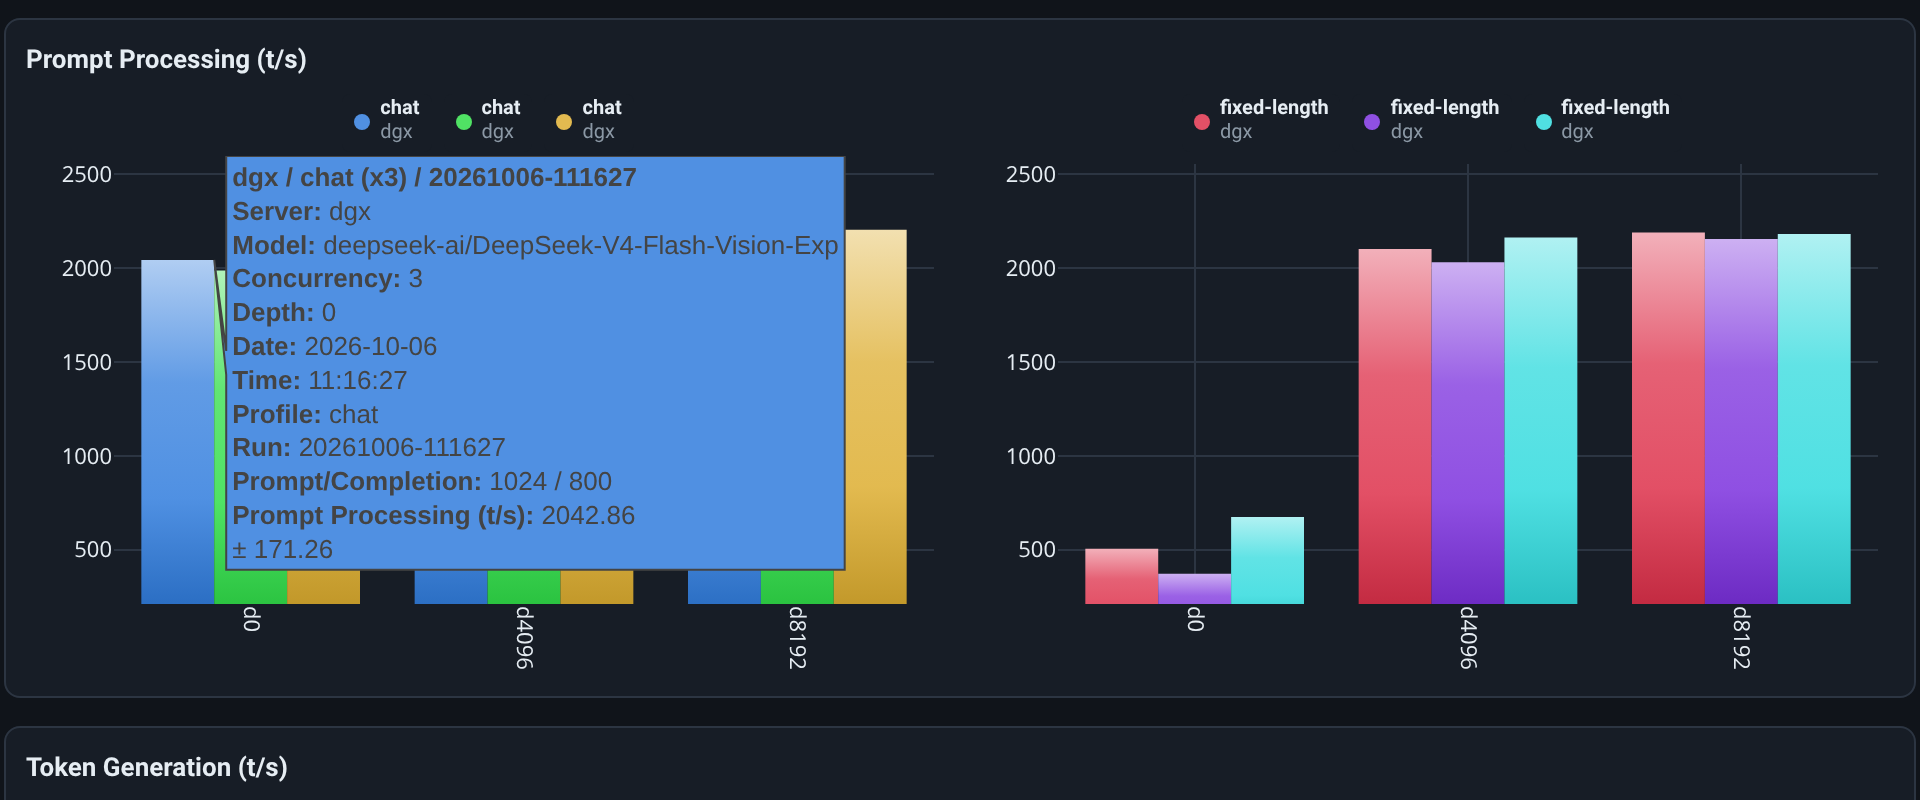
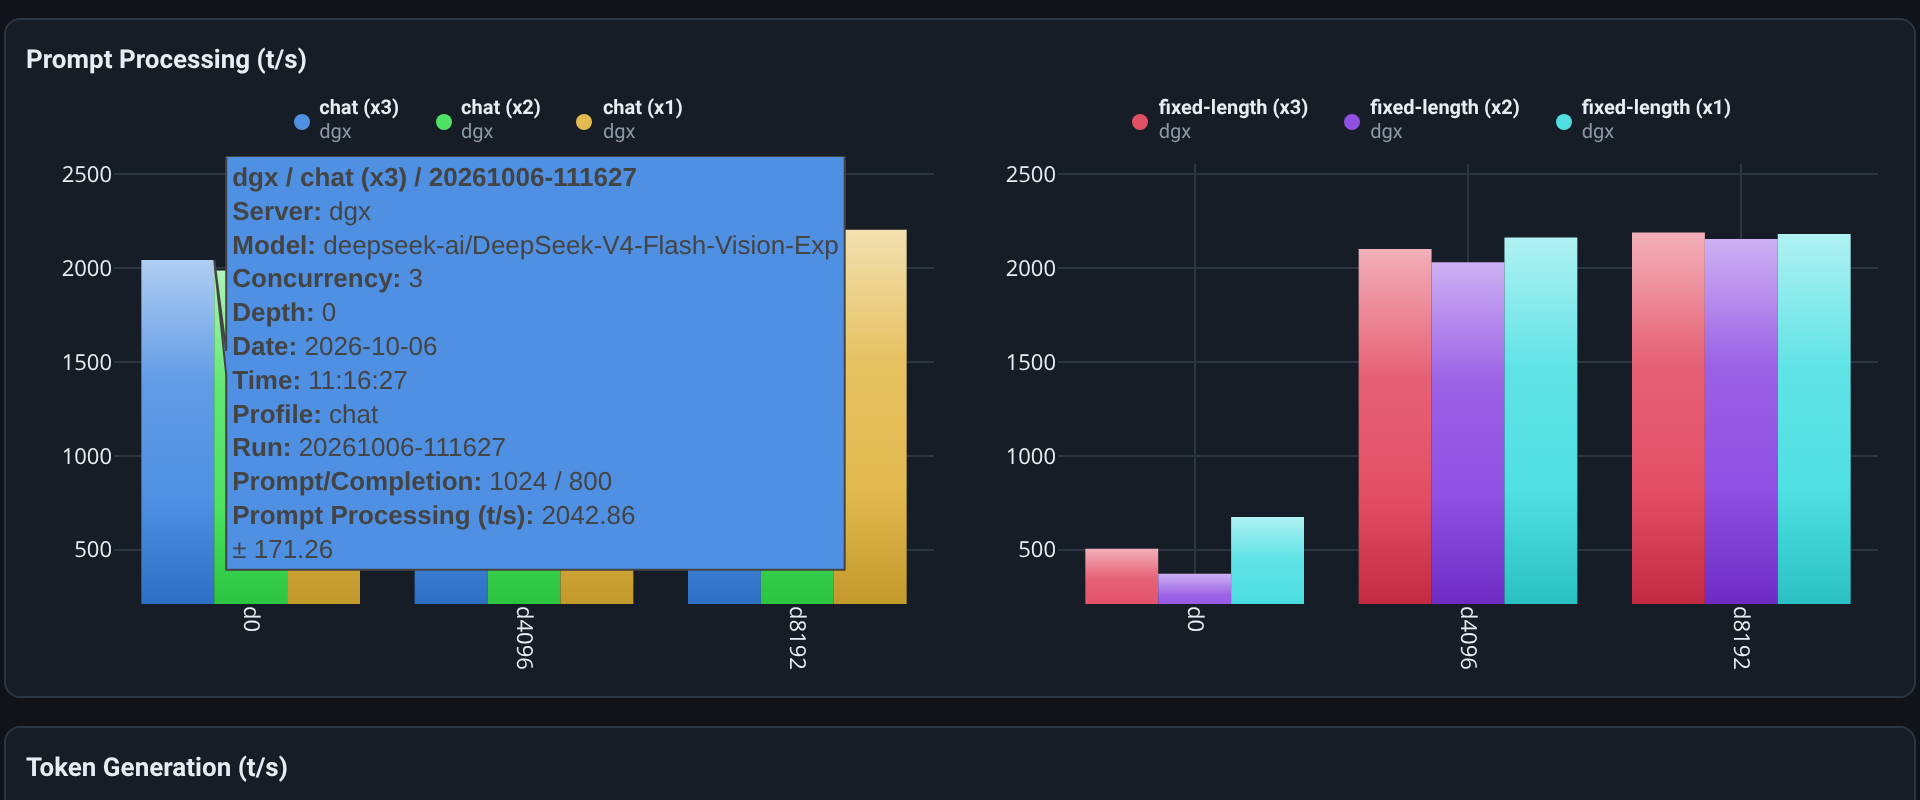
Combine mode legends show concurrency; refreshed screenshots
- Legend chips in Combine Concurrencies mode now include the concurrency on
  the first line (chat (x3) / dgx, chat (x2) / dgx, chat (x1) / dgx) so the
  per-run chips stay meaningful when several concurrency levels are merged
  into one chart; uncombined mode unchanged.
- README: updated the Combine Concurrencies bullet and screenshot caption.
- docs/screenshots: grouped-legends.png recaptured (dark theme, latest
  three done runs, chat + fixed-length combined, 3D bevels, hover tooltip
  open on the first bar); dashboard/chart-controls refreshed with the new
  legend text.

Changed region(s): [[0.5938, 0.125, 0.9062, 0.1875], [0.1562, 0.125, 0.3438, 0.1875]]

diff --git a/showaibench/static/app.js b/showaibench/static/app.js
@@ -712,7 +712,7 @@ function renderCharts() {
         chips.append(el("span", { class: "lg-chip" }, [
           el("i", { style: `background:${e.color}` }),
           el("span", { class: "lg-lines" }, [
-            el("span", { class: "lg-l1", text: combine ? e.profile : `${e.profile} (x${e.conc})` }),
+            el("span", { class: "lg-l1", text: `${e.profile} (x${e.conc})` }),
             el("span", { class: "lg-l2", text: e.sname }),
           ]),
         ]));

diff --git a/showaibench/static/index.html b/showaibench/static/index.html
@@ -6,7 +6,7 @@
   <title>show-ai-bench-results</title>
   <link rel="stylesheet" href="/static/style.css?v=12">
   <script src="/static/plotly.min.js"></script>
-  <script src="/static/app.js?v=45" defer></script>
+  <script src="/static/app.js?v=46" defer></script>
 </head>
 <body>
   <header>

diff --git a/README.md b/README.md
@@ -65,10 +65,9 @@ servers.conf ──► main.py (FastAPI, 127.0.0.1:8585)
 - **Combine Concurrencies** switch (below Elements, **on by default**):
   when on, all selected concurrency levels of a profile are merged into a
   single chart — bars of `x1/x2/x3 …` sit edge-to-edge in each depth cell,
-  and the legend is one two-line chip per run: the profile on the first
-  line (`chat`, or `chat (x1)` when the switch is off) and the server name
-  below it. Switch it off to go back to one chart per `profile (xN)` with
-  the usual gaps.
+  and the legend is one two-line chip per run: `profile (xN)` on the first
+  line (`chat (x3)`, `chat (x2)`, …) with the server name below it. Switch
+  it off to go back to one chart per `profile (xN)` with the usual gaps.
 - **Bar tooltip**: hovering a bar shows a single multi-line label — a bold
   header (`dgx / chat (x3) / 20261006-111627`) with the full identity and
   measurement of that bar underneath: Server, Model, Concurrency, Depth,
@@ -130,9 +129,10 @@ concurrency levels — when Combine Concurrencies is on) — and the
 ![Grouped legends](docs/screenshots/grouped-legends.png)
 
 With Combine on, each profile is its own chart with a compact two-line
-legend above it (`chat` / `dgx`), 3D-beveled bars, and the hover tooltip
-open on the first bar — server, model, concurrency, depth, date, time,
-run, prompt/completion sizes and the measured value with its std.
+legend above it (`chat (x3)` / `dgx`, one chip per run), 3D-beveled bars,
+and the hover tooltip open on the first bar — server, model, concurrency,
+depth, date, time, run, prompt/completion sizes and the measured value
+with its std.
 
 ---
 
